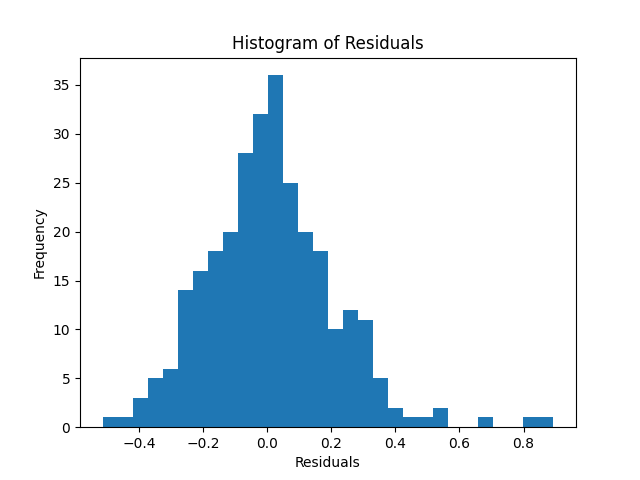
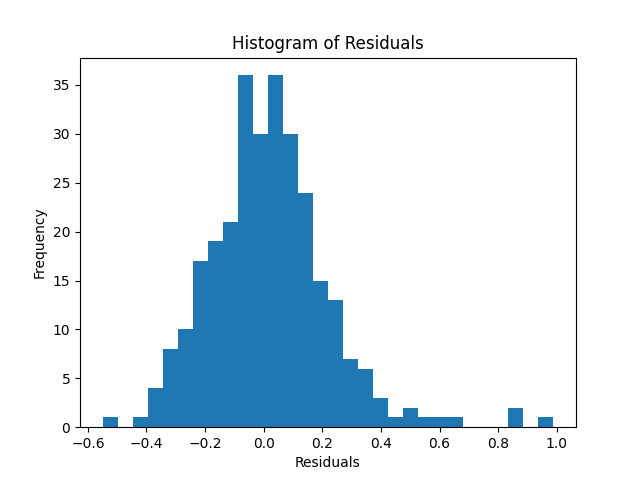
Implementation of minibatch stochastic regression

diff --git a/DiabetesHealthIndicators/MiniBatchLogisticRegression.py b/DiabetesHealthIndicators/MiniBatchLogisticRegression.py
@@ -8,7 +8,13 @@ def sigmoid(z):
 
 class MiniBatchLogisticRegression:
     def __init__(
-        self, learning_rate=0.01, max_iter=1000, epsilon=1e-8, batch_size=10, epoch=100
+        self,
+        learning_rate=0.01,
+        max_iter=1000,
+        epsilon=1e-8,
+        batch_size=10,
+        epoch=100,
+        add_bias=True,
     ):
         self.weights = None
         self.learning_rate = learning_rate
@@ -16,11 +22,56 @@ class MiniBatchLogisticRegression:
         self.epsilon = epsilon
         self.batch_size = batch_size
         self.epoch = epoch
+        self.add_bias = add_bias
 
     def gradient(self, x, y):
-        n_samples, n_features = x.shape
         yh = sigmoid(np.dot(x, self.weights))
-        grad = (
-            np.dot(x.T, yh - y) / n_samples
-        )  # divide by N because cost is mean over N points
+        grad = np.dot(x.T, yh - y)  # divide by N because cost is mean over N points
         return grad  # size n_features
+
+    def stochastic_gradient_descent(self, x, y):
+
+        n_samples, n_features = x.shape
+        grad = np.inf
+
+        for i in range(n_samples):  # Iterate over all the samples in the X
+            rand_index = np.random.randint(
+                n_samples
+            )  # fetch the index of random value in x
+
+            x_rand, y_rand = (
+                x[rand_index],
+                y[rand_index],
+            )  # Obtain the two corresponding sample and result
+
+            grad = self.gradient(x_rand, y_rand)
+            self.weights = self.weights - self.learning_rate * grad
+            if np.linalg.norm(grad) < self.epsilon:
+                break
+
+    def fit(self, x, y):
+        if self.add_bias:
+            x = np.c_[np.ones(x.shape[0]), x]
+
+        n_samples, n_features = x.shape
+
+        self.weights = np.zeros(n_features)
+
+        for e in range(self.epoch):
+            mini_batches = self.create_array_minibatch(x, y)
+            for x_batch, y_batch in mini_batches:
+                self.stochastic_gradient_descent(x_batch, y_batch)
+
+    def predict(self, x):
+        if self.add_bias:
+            x = np.c_[np.ones((x.shape[0], 1)), x]
+        linear_model = np.dot(x, self.weights)
+        yh_real = sigmoid(linear_model)
+        yh_bool = (yh_real > 0.5).astype(int)
+        return yh_bool, yh_real
+
+    def create_array_minibatch(self, x, y):
+        matrix = np.c_[x, y]
+        np.random.shuffle(matrix)
+        mini_batches = np.array_split(matrix, self.batch_size)
+        return [(batch[:, :-1], batch[:, -1]) for batch in mini_batches]

diff --git a/InfraredThermographyTemperature/MiniBatchStochasticLinearRegression.py b/InfraredThermographyTemperature/MiniBatchStochasticLinearRegression.py
@@ -39,7 +39,7 @@ class MiniBatchStochasticLinearRegression:
 
             x_rand, y_rand = (
                 x[rand_index],
-                y.iloc[rand_index],
+                y[rand_index],
             )  # Obtain the two corresponding sample and result
 
             grad = self.gradient(x_rand, y_rand)
@@ -56,8 +56,9 @@ class MiniBatchStochasticLinearRegression:
         self.weights = np.zeros(n_features)
 
         for e in range(self.epoch):
-
-            self.stochastic_gradient_descent(x, y)
+            mini_batches = self.create_array_minibatch(x, y)
+            for x_batch, y_batch in mini_batches:
+                self.stochastic_gradient_descent(x_batch, y_batch)
 
     def predict(self, x):
         if self.bias:
@@ -66,6 +67,7 @@ class MiniBatchStochasticLinearRegression:
         return yh
 
     def create_array_minibatch(self, x, y):
-        n_samples, n_features = x.shape
-
-        # for i in range(0, n_samples, self.batch_size)
+        matrix = np.c_[x, y]
+        np.random.shuffle(matrix)
+        mini_batches = np.array_split(matrix, self.batch_size)
+        return [(batch[:, :-1], batch[:, -1]) for batch in mini_batches]

diff --git a/DiabetesHealthIndicators/PrepareDataset.py b/DiabetesHealthIndicators/PrepareDataset.py
@@ -1,6 +1,7 @@
 import pandas as pd
 import numpy as np
 from LogisticRegression import *
+from MiniBatchLogisticRegression import *
 from Assignment1.Helpers import *
 from sklearn.metrics import (
     accuracy_score,
@@ -35,7 +36,7 @@ def perform_logistic_regression(preprocessed_data):
     # x_train, x_test, y_train, y_test = split_data(preprocessed_data, "Diabetes_binary")
     # x_train_scaled, x_test_scaled = scale_data(x_train, x_test)
 
-    lr = LogisticRegression(0.005, 1000, 1e-6, True, 10)
+    lr = MiniBatchLogisticRegression(0.005, 1000, 1e-6, 32, 100)
     lr.fit(x_train, y_train)
     yh_bool, yh_real = lr.predict(x_test)
 

diff --git a/InfraredThermographyTemperature/PrepareDataset.py b/InfraredThermographyTemperature/PrepareDataset.py
@@ -93,7 +93,7 @@ def perform_linear_regression(preprocessed_data):
     # yh = lr.predict(x_test_scaled)
 
     lr = MiniBatchStochasticLinearRegression(
-        learning_rate=0.005, max_iter=1000, epsilon=1e-6, epoch=100, batch_size=1
+        learning_rate=0.005, max_iter=1000, epsilon=1e-6, epoch=100, batch_size=32
     )
     lr.fit(x_train_scaled, y_train)
     yh = lr.predict(x_test_scaled)
